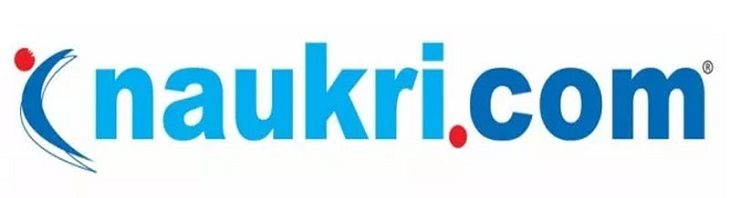
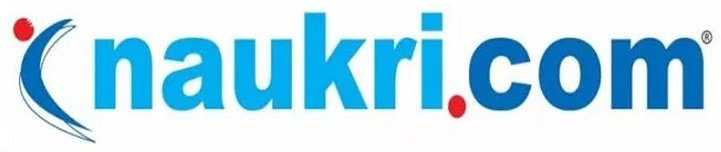
naukri.com scraped

Changed region(s): [[0.0, 0.0526, 1.0, 0.9474]]

diff --git a/naukriResult.py b/naukriResult.py
@@ -3,7 +3,8 @@ from PIL import ImageTk, Image
 import requests
 from bs4 import BeautifulSoup
 import webbrowser
-
+from selenium import webdriver
+import time 
 
 root1 = Tk()
 root1.title("Naukri.com Search Result")
@@ -14,72 +15,124 @@ label_naukri = Label(image=naukri_logo)
 
 search_bar = Entry(root1, width=50, borderwidth=2, font=(18))
 
-label_naukri.grid(column=0, row=0,padx=70, pady=50,columnspan=3)
+label_naukri.grid(column=0, row=0,padx=70, pady=40,columnspan=3)
 search_bar.grid(column=0, row=2,columnspan=3,pady=10)
 
 def on_click():
     search_text = search_bar.get()
-    url = "https://www.google.co.in/search?q="+search_text
-    headers = {"user-agent" : 'Mozilla/5.0 (X11; Linux x86_64) AppleWebKit/537.36 (KHTML, like Gecko) Chrome/51.0.2704.103 Safari/537.36'}
-    req = requests.get(url, headers=headers)
-    soup = BeautifulSoup(req.content, "html.parser")
-    flag = True
-    anchors = soup.find('div', class_="g")
-    # print(anchors.prettify)
-    if anchors:
-        link = anchors.find('a')['href']
+    url = "https://www.naukri.com/software-developer-jobs?k="+search_text
+    driver = webdriver.Chrome("C:\\Users\\Rishika Raj\\Downloads\\chromedriver_win32\\chromedriver.exe")
+    driver.get(url)
+    time.sleep(10)
+    soup = BeautifulSoup(driver.page_source, "html5lib")
+    # print(soup.prettify())
+    driver.quit()
+    results = soup.find(class_='list')
+    f = True
+    if results.find('article',class_='jobTuple bgWhite br4 mb-8'):
+        job_elem = results.find('article',class_='jobTuple bgWhite br4 mb-8')
+        link = job_elem.find('a',class_='title fw500 ellipsis').get('href')
+        if job_elem.find('span',class_='starRating fleft dot'):
+            rat = job_elem.find('span',class_='starRating fleft dot').get_text()
+        else :
+            rat=' N/A '
+        if job_elem.find('a',class_='title fw500 ellipsis'):
+            title= job_elem.find('a',class_='title fw500 ellipsis').get_text()
+        else:
+            title=' No job available '
+        if job_elem.find('li',class_='fleft grey-text br2 placeHolderLi experience'):
+            Exp = job_elem.find('li',class_='fleft grey-text br2 placeHolderLi experience')
+            dura= Exp.find('span',class_='ellipsis fleft fs12 lh16').get_text()
+        else:
+            dura=" N/A "
+        if job_elem.find('li',class_='fleft grey-text br2 placeHolderLi salary'):
+            Sal = job_elem.find('li',class_='fleft grey-text br2 placeHolderLi salary')
+            sal=Sal.find('span',class_='ellipsis fleft fs12 lh16').get_text()
+        else:
+            sal=' N/A '
+        if job_elem.find('li',class_='fleft grey-text br2 placeHolderLi location'):
+            Loc = job_elem.find('li',class_='fleft grey-text br2 placeHolderLi location')
+            loc=Loc.find('span',class_='ellipsis fleft fs12 lh16').get_text()
+        else:
+           loc=" N/A "
+        if job_elem.find('a',class_='subTitle ellipsis fleft'):
+            comp=job_elem.find('a',class_='subTitle ellipsis fleft').get_text()
+        else:
+            comp=' N/A '
+        if soup.find('div',class_='tags has-description'):
+            skill=soup.find('div',class_='tags has-description').get_text()
+        else:
+            skill=' N/A '  
+        
     else:
-        flag = False
-
-    def open_link():
-        webbrowser.open_new(link)
+        f = False
+        title= ' No job available '
+        comp=' N/A '
+        rat =' N/A '
+        sal= ' N/A '
+        loc= ' N/A '
+        dura= ' N/A '
+        skill= ' N/A '
         
         
-    if flag and anchors.find('h3'):
-        title_label = Label(root1, text=anchors.find('h3').get_text(), fg='blue')
-        link_label = Label(root1, text=anchors.find('cite').get_text(),fg='purple')
-        des_label = Label(root1, text=soup.find('div',class_='IsZvec').get_text(),fg='#888888', wraplength=900, justify="left")
-        f=1;
-        link_button = Button(root1, text="Go to page", command=open_link,bg="#dddddd", borderwidth=2)
-        link_button.config(font=(14))
-        link_button.grid(column=1, row=7, pady=10, padx=40)
-    else:
-        f=0
-        title_label = Label(root1, text="No Results",fg="#a9a9a9")
-        link_label = Label(root1, text="Ooops (Search Failed)!!",fg="#a9a9a9")
-        des_label = Label(root1, text="Please check the text you entered, and try again.",fg="#a9a9a9")
-    
-    title_label.config(font=(32))
-    link_label.config(font=(24))
-    des_label.config(font=(16))
-
-    
-    title_label.grid(column=1, row=4, pady=0)
-    link_label.grid(column=1, row=5, pady=0)
-    des_label.grid(column=1, row=6, pady=0)
+    title_label = Label(root1, text=title)
+    des_label = Label(root1, text='Company :'+comp)
+    rat_label = Label(root1, text='Ratings : '+rat)
+    salary_label= Label(root1, text='Salary : '+sal )
+    loca_label=Label(root1, text='Location : '+ loc )
+    durat_label= Label(root1, text='Experience : '+dura )
+    skill_label= Label(root1, text='Required skills : '+skill)    
+    title_label.config(font=(14))
+    des_label.config(font=(10))
+    rat_label.config(font=(10))
+    salary_label.config(font=(10))
+    loca_label.config(font=(10))
+    durat_label.config(font=(10))
+    skill_label.config(font=(10))
+    title_label.grid(column=1, row=4, pady=5)
+    des_label.grid(column=1, row=5, pady=0)
+    rat_label.grid(column=1, row=6, pady=0)
+    salary_label.grid(column=1, row=7, pady=0)
+    loca_label.grid(column=1, row=8, pady=0)
+    durat_label.grid(column=1, row=9, pady=0)
+    skill_label.grid(column=1, row=10, pady=0)
     
     def label_del():
         title_label.grid_forget()
-        link_label.grid_forget()
         des_label.grid_forget()
+        rat_label.grid_forget()
         exit_btn.grid_forget()
-        if f==1:
+        salary_label.grid_forget()
+        loca_label.grid_forget()
+        durat_label.grid_forget()
+        skill_label.grid_forget()
+        if f:
             link_button.grid_forget()
         else:
-            on_click()
+            exit_btn.grid_forget()
+        on_click()
+    
+    def open_link():
+        webbrowser.open_new(link)
             
-    my_button = Button(root1, text="Search", command=on_click, bg='#dddddd', borderwidth=2)  
-    my_button.config(font=(15)) 
-    my_button.grid(column=1, row=3, pady=20,padx=40)
+    my_button = Button(root1, text="Search", command=label_del, bg='#dddddd', borderwidth=2)  
+    my_button.config(font=(14)) 
+    my_button.grid(column=1, row=3, pady=12,padx=40)
 
     exit_btn = Button(root1, text="Exit", command=root1.quit, padx=20, bg='#dddddd', borderwidth=2)
     exit_btn.config(font=(14))
-    exit_btn.grid(column=1, row=8, pady=10, padx=40)
+    if f:
+        link_button = Button(root1, text="Go to page", command=open_link,bg="#dddddd", borderwidth=2)
+        link_button.config(font=(14))
+        link_button.grid(column=1, row=11, pady=10, padx=40)
+        exit_btn.grid(column=1, row=12, pady=5, padx=40)
+    else:
+        exit_btn.grid(column=1, row=12, pady=5, padx=40)
 
 
 my_button = Button(root1, text="Search", command=on_click, bg='#dddddd', borderwidth=2)  
-my_button.config(font=(15)) 
-my_button.grid(column=1, row=3, pady=20,padx=40)
+my_button.config(font=(14)) 
+my_button.grid(column=1, row=3, pady=15,padx=40)
 
 
 root1.mainloop()

diff --git a/monsterResult.py b/monsterResult.py
@@ -19,65 +19,101 @@ search_bar.grid(column=0, row=2,columnspan=3,pady=10)
 
 def on_click():
     search_text = search_bar.get()
-    url = "https://www.google.co.in/search?q="+search_text
+    url = "https://www.monsterindia.com/srp/results?query="+search_text
     headers = {"user-agent" : 'Mozilla/5.0 (X11; Linux x86_64) AppleWebKit/537.36 (KHTML, like Gecko) Chrome/51.0.2704.103 Safari/537.36'}
     req = requests.get(url, headers=headers)
     soup = BeautifulSoup(req.content, "html.parser")
-    flag = True
-    anchors = soup.find('div', class_="g")
-    # print(anchors.prettify)
-    if anchors:
-        link = anchors.find('a')['href']
+    print(soup)
+    f = True
+    if soup.find('div', class_='job-title'):
+        if soup.find('h3', class_='medium'):
+            title= soup.find('h3', class_='medium').get_text()
+        else:
+            title=' No job available '
+        if soup.find('span', class_='loc'):
+            dura= soup.find('span', class_='loc').get_text()
+        else:
+            dura=" N/A "
+        if soup.find('span', class_='SalarySnb'):
+            sal=soup.find('span', class_='SalarySnb').get_text()
+        else:
+            sal=' N/A '
+        if soup.find('span', class_='loc'):
+            loc=soup.find('span', class_='loc').get_text()
+        else:
+            loc=" N/A "
+        if soup.find('p', class_='job-descrip'):
+            des=soup.find('p', class_='job-descrip').get_text()
+        else:
+            des=' N/A '
+        if soup.find('p',class_='descrip-skills'):
+            skill=soup.find('p',class_='descrip-skills').get_text()
+        else:
+            skill=' N/A '  
+        link = soup.find('a', target='_blank').get('href')
     else:
-        flag = False
-
+        f = False
+        title= ' No job available '
+        des=' N/A '
+        sal= ' N/A '
+        loc= ' N/A '
+        dura= ' N/A '
+        skill= ' N/A '
+        
+        
+        
     def open_link():
         webbrowser.open_new(link)
         
-        
-    if flag and anchors.find('h3'):
-        title_label = Label(root2, text=anchors.find('h3').get_text(), fg='blue')
-        link_label = Label(root2, text=anchors.find('cite').get_text(),fg='purple')
-        des_label = Label(root2, text=soup.find('div',class_='IsZvec').get_text(),fg='#888888', wraplength=900, justify="left")
-        f=1;
-        link_button = Button(root2, text="Go to page", command=open_link,bg="#dddddd", borderwidth=2)
-        link_button.config(font=(14))
-        link_button.grid(column=1, row=7, pady=10, padx=40)
-    else:
-        f=0
-        title_label = Label(root2, text="No Results",fg="#a9a9a9")
-        link_label = Label(root2, text="Ooops (Search Failed)!!",fg="#a9a9a9")
-        des_label = Label(root2, text="Please check the text you entered, and try again.",fg="#a9a9a9")
-    
-    title_label.config(font=(32))
-    link_label.config(font=(24))
-    des_label.config(font=(16))
-
-    
-    title_label.grid(column=1, row=4, pady=0, padx=10)
-    link_label.grid(column=1, row=5, pady=0, padx=10)
-    des_label.grid(column=1, row=6, pady=0, padx=10)
+    title_label = Label(root2, text=title)
+    des_label = Label(root2, text='Description :'+des)
+    salary_label= Label(root2, text='Salary : '+sal )
+    loca_label=Label(root2, text='Location : '+ loc )
+    durat_label= Label(root2, text='Experience : '+dura )
+    skill_label= Label(root2, text='Required skills : '+skill)    
+    title_label.config(font=(14))
+    des_label.config(font=(10))
+    salary_label.config(font=(12))
+    loca_label.config(font=(12))
+    durat_label.config(font=(12))
+    skill_label.config(font=(10))
+    title_label.grid(column=1, row=5, pady=0)
+    des_label.grid(column=1, row=6, pady=0)
+    salary_label.grid(column=1, row=7, pady=0)
+    loca_label.grid(column=1, row=8, pady=0)
+    durat_label.grid(column=1, row=9, pady=0)
+    skill_label.grid(column=1, row=10, pady=0)
     
     def label_del():
         title_label.grid_forget()
-        link_label.grid_forget()
         des_label.grid_forget()
         exit_btn.grid_forget()
-        if f==1:
+        salary_label.grid_forget()
+        loca_label.grid_forget()
+        durat_label.grid_forget()
+        skill_label.grid_forget()
+        if f:
             link_button.grid_forget()
         else:
-            on_click()
+            exit_btn.grid_forget()
+        on_click()
             
     my_button = Button(root2, text="Search", command=label_del, bg='#dddddd', borderwidth=2)  
-    my_button.config(font=(15)) 
+    my_button.config(font=(14)) 
     my_button.grid(column=1, row=3, pady=20,padx=40)
 
     exit_btn = Button(root2, text="Exit", command=root2.quit, padx=20, bg='#dddddd', borderwidth=2)
     exit_btn.config(font=(14))
-    exit_btn.grid(column=1, row=8, pady=10, padx=40)
+    if f:
+        link_button = Button(root2, text="Go to page", command=open_link,bg="#dddddd", borderwidth=2)
+        link_button.config(font=(14))
+        link_button.grid(column=1, row=11, pady=10, padx=40)
+        exit_btn.grid(column=1, row=12, pady=10, padx=40)
+    else:
+        exit_btn.grid(column=1, row=12, pady=10, padx=40)
 
 my_button = Button(root2, text="Search", command=on_click, bg='#dddddd', borderwidth=2)  
-my_button.config(font=(15)) 
+my_button.config(font=(14)) 
 my_button.grid(column=1, row=3, pady=20,padx=40)
 
 

diff --git a/compare.py b/compare.py
@@ -6,7 +6,7 @@ import webbrowser
 
 
 root3 = Tk()
-root3.title("Naukri.com Search Result")
+root3.title("Compare ")
 root3.call('wm', 'iconphoto', root3._w, PhotoImage(file='WebScrapping/Images/ieee.png'))
 
 compare_logo = ImageTk.PhotoImage(Image.open("WebScrapping/Images/images.png"))
@@ -33,20 +33,18 @@ def on_click():
     label_ms.grid(column=2, row=4, padx="30")
     
     search_text = search_bar.get()
-    url = "https://www.google.co.in/search?q="+search_text
+    url1 = "https://www.google.co.in/search?q="+search_text
+    url2 = "https://www.google.co.in/search?q="+search_text
     headers = {"user-agent" : 'Mozilla/5.0 (X11; Linux x86_64) AppleWebKit/537.36 (KHTML, like Gecko) Chrome/51.0.2704.103 Safari/537.36'}
-    req = requests.get(url, headers=headers)
-    soup = BeautifulSoup(req.content, "html.parser")
-    flag = True
-    anchors = soup.find('div', class_="g")
+    req1 = requests.get(url1, headers=headers)
+    req2 = requests.get(url2, headers=headers)
+    soup1 = BeautifulSoup(req1.content, "html.parser")
+    soup2 = BeautifulSoup(req2.content, "html.parser")
+    flag1 = True
+    flag2 = True
+    
+    # anchors = soup.find('div', class_="g")
     # print(anchors.prettify)
-    if anchors:
-        link = anchors.find('a')['href']
-    else:
-        flag = False
-
-    def open_link():
-        webbrowser.open_new(link)
         
         
     if flag and anchors.find('h3'):
@@ -97,7 +95,7 @@ def on_click():
             on_click()
             
     my_button = Button(root3, text="Comapare", command=label_del, bg='#dddddd', borderwidth=2)  
-    my_button.config(font=(15)) 
+    my_button.config(font=(14)) 
     my_button.grid(column=1, row=3, pady=20,padx=40)
 
 
@@ -107,7 +105,7 @@ def on_click():
 
 
 my_button = Button(root3, text="Comapare", command=on_click, bg='#dddddd', borderwidth=2)  
-my_button.config(font=(15)) 
+my_button.config(font=(14)) 
 my_button.grid(column=1, row=3, pady=20,padx=40)
 
 

diff --git a/googleSearchResult.py b/googleSearchResult.py
@@ -48,9 +48,9 @@ def on_click():
         link_button.grid(column=1, row=7, pady=10,sticky="E", padx=40)
     else:
         f=0
-        title_label = Label(root0, text="No Results",fg="#a9a9a9")
-        link_label = Label(root0, text="Ooops (Search Failed)!!",fg="#a9a9a9")
-        des_label = Label(root0, text="Please check the text you entered, and try again.",fg="#a9a9a9")
+        title_label = Label(root0, text="Ooops (Search Failed)!!",fg="#a9a9a9")
+        link_label = Label(root0, text="No Results",fg="#a9a9a9")
+        des_label = Label(root0, text="Try another keyword..",fg="#a9a9a9")
     
     title_label.config(font=(32))
     link_label.config(font=(24))
